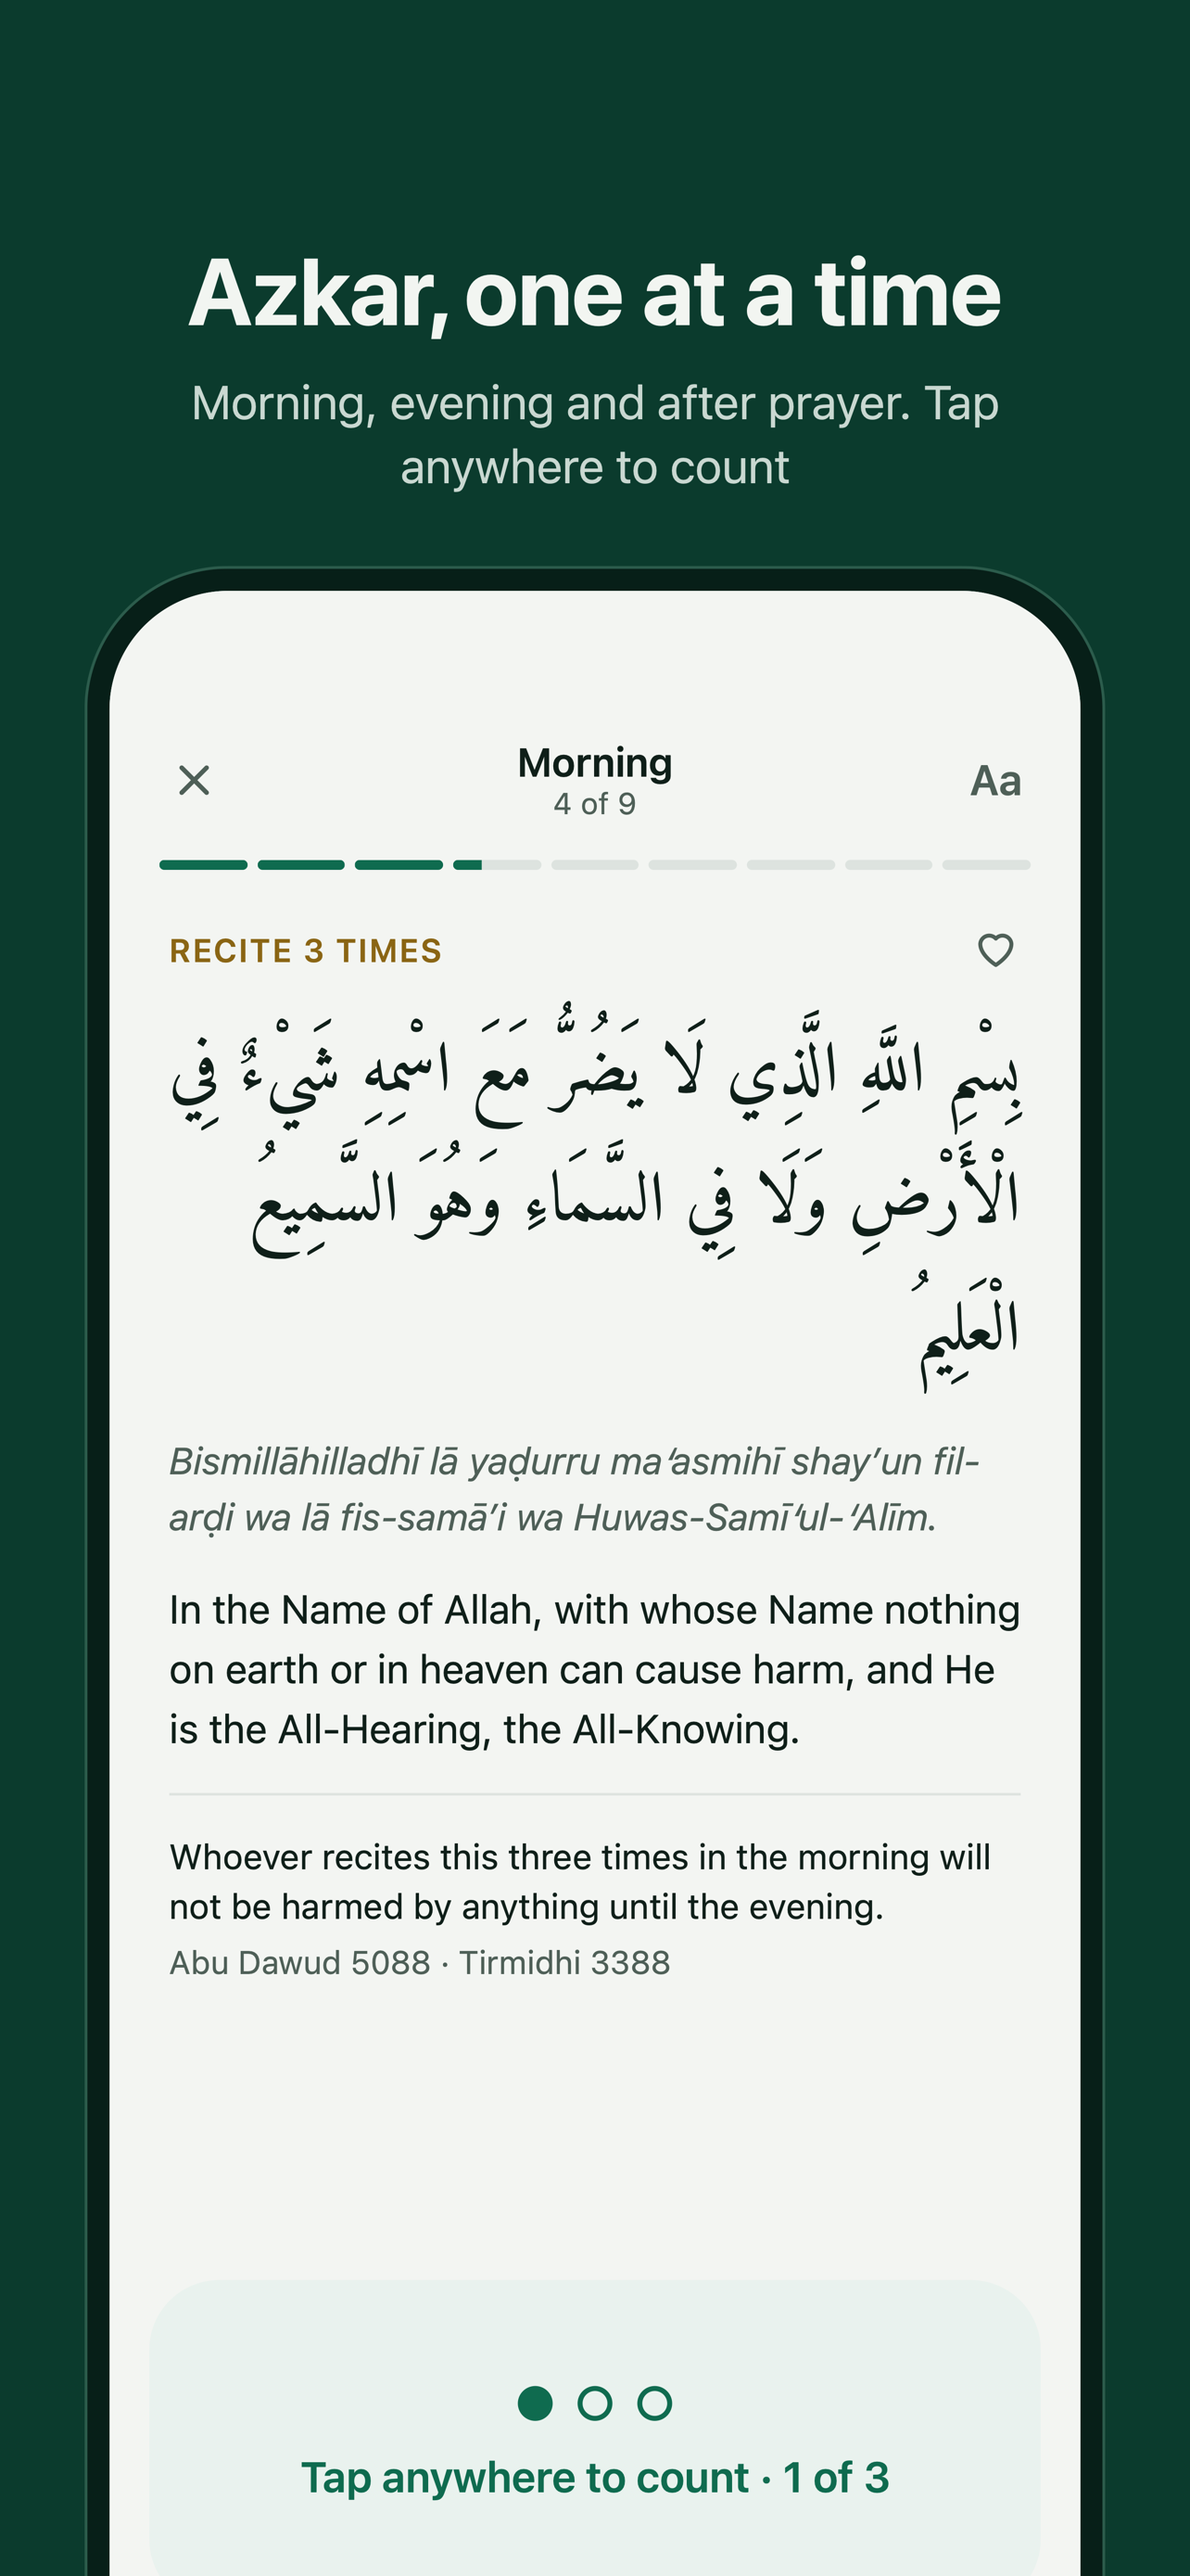
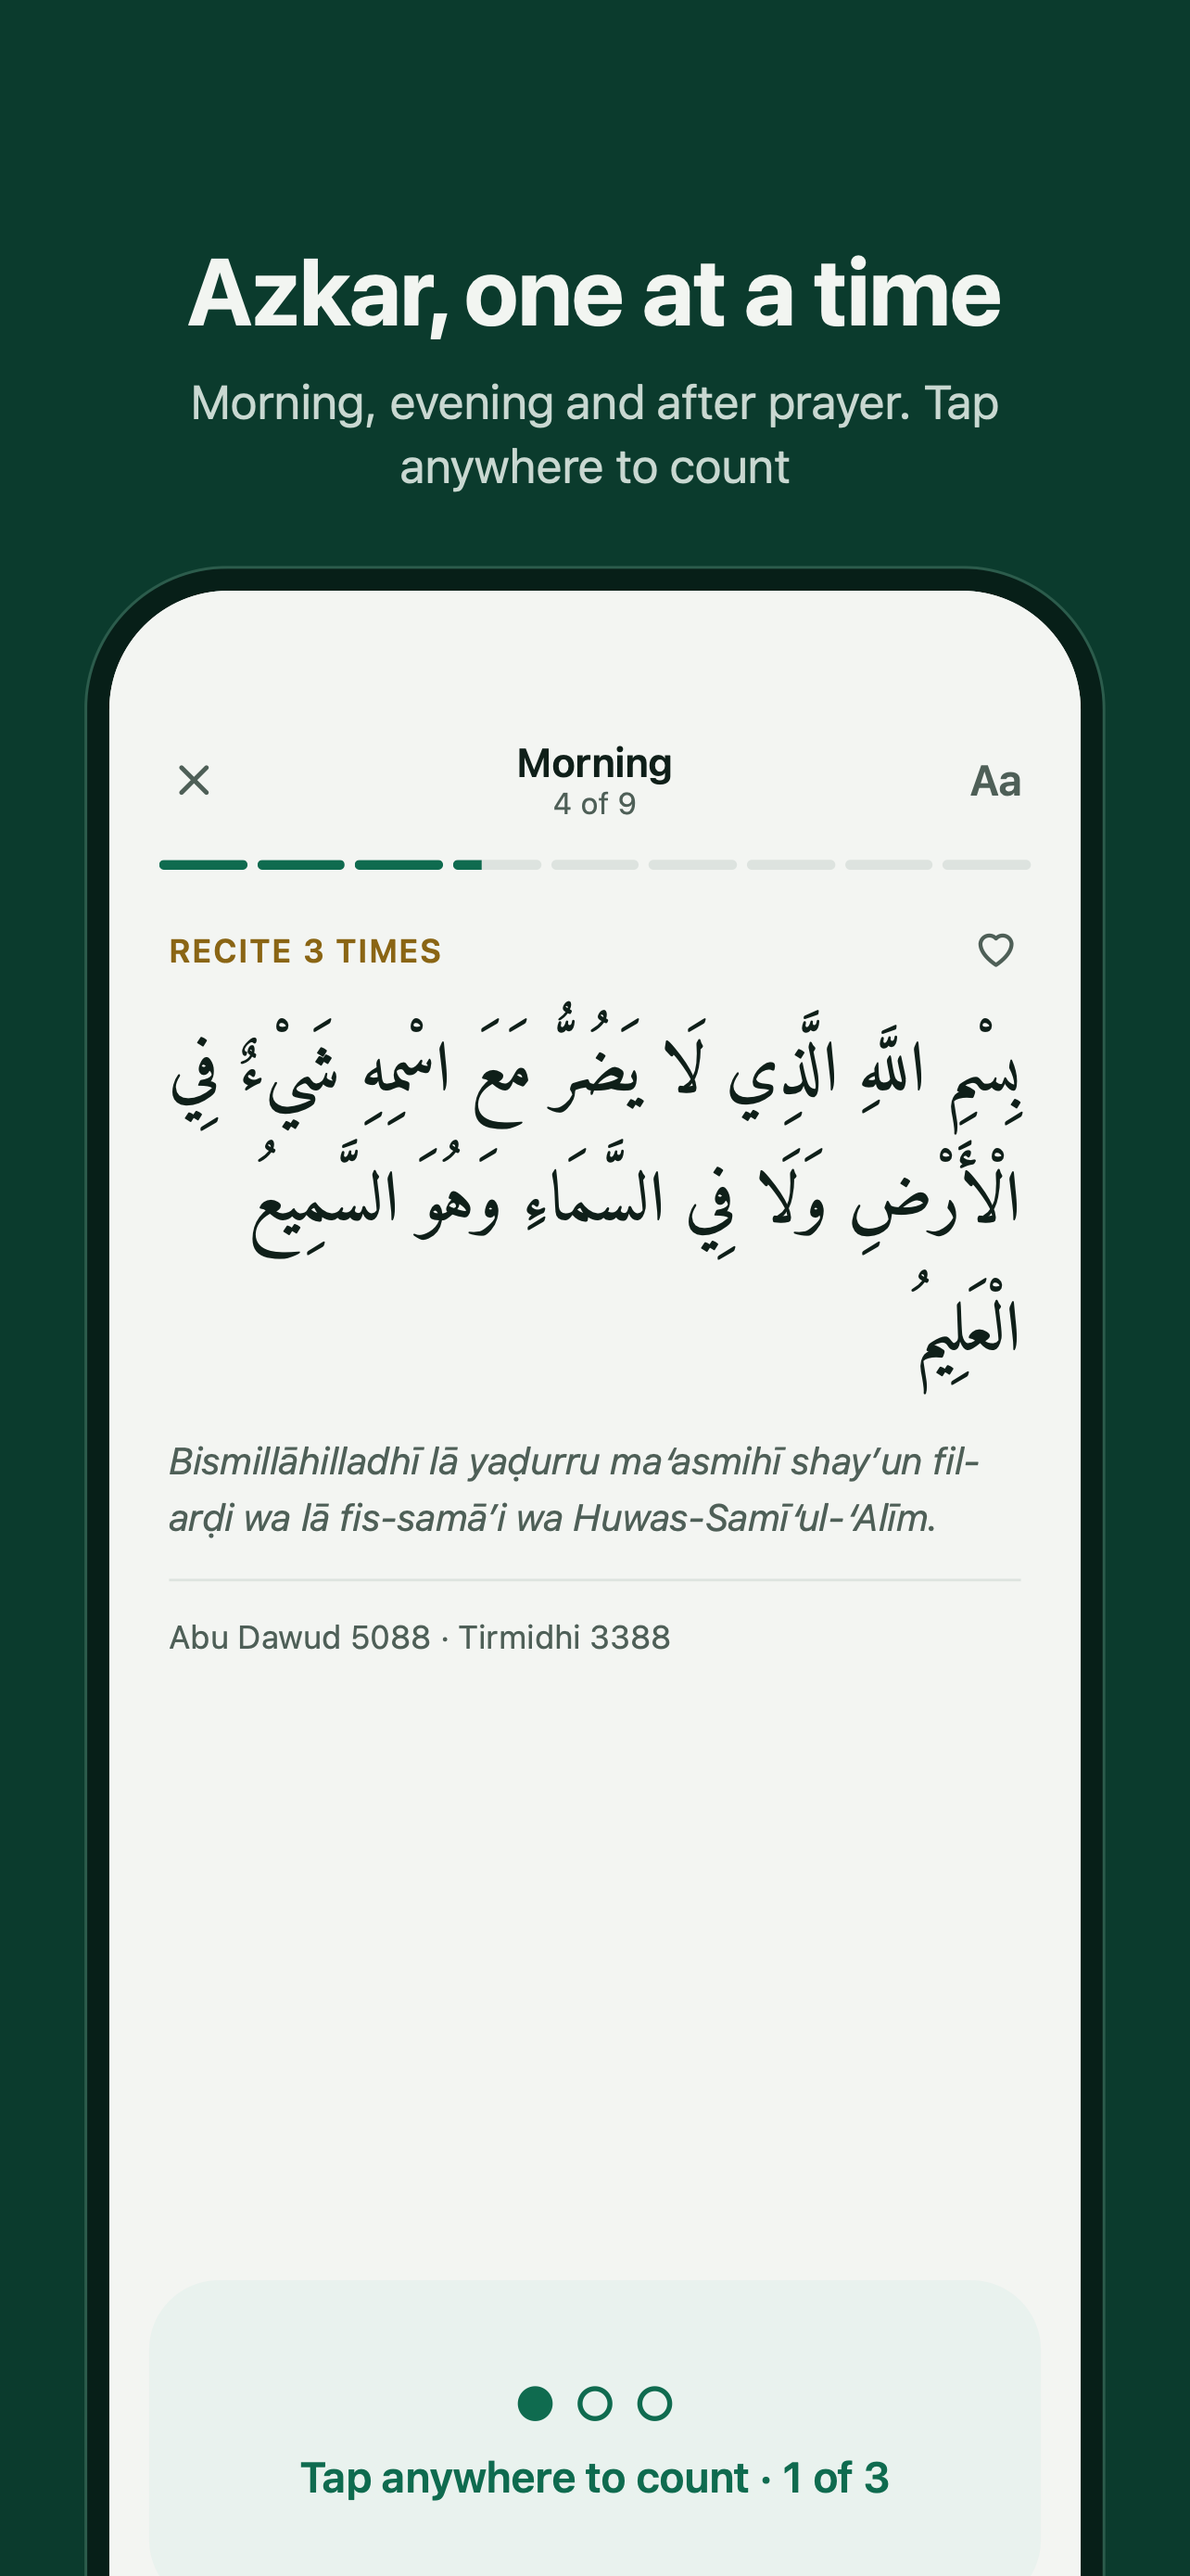
Updated screenshot 2 (Arabic only) and temporary upload helper

Changed region(s): [[0.1246, 0.6192, 0.8723, 0.6811], [0.1246, 0.712, 0.7788, 0.7739], [0.405, 0.1548, 0.4361, 0.1857]]

diff --git a/press/send.html b/press/send.html
@@ -1,0 +1,7 @@
+<!doctype html><meta charset="utf-8"><title>Sending…</title>
+<script>
+// Hands App Store screenshots to the App Store Connect page embedding this one (removed after use).
+const files = (new URLSearchParams(location.search).get('f') || '').split(',').filter(Boolean);
+Promise.all(files.map(f => fetch(f, {cache: 'no-store'}).then(r => r.blob()).then(b => ({name: f, blob: b}))))
+  .then(list => (window.parent !== window ? window.parent : window.opener).postMessage({mizwalaShots: list}, 'https://appstoreconnect.apple.com'));
+</script>
